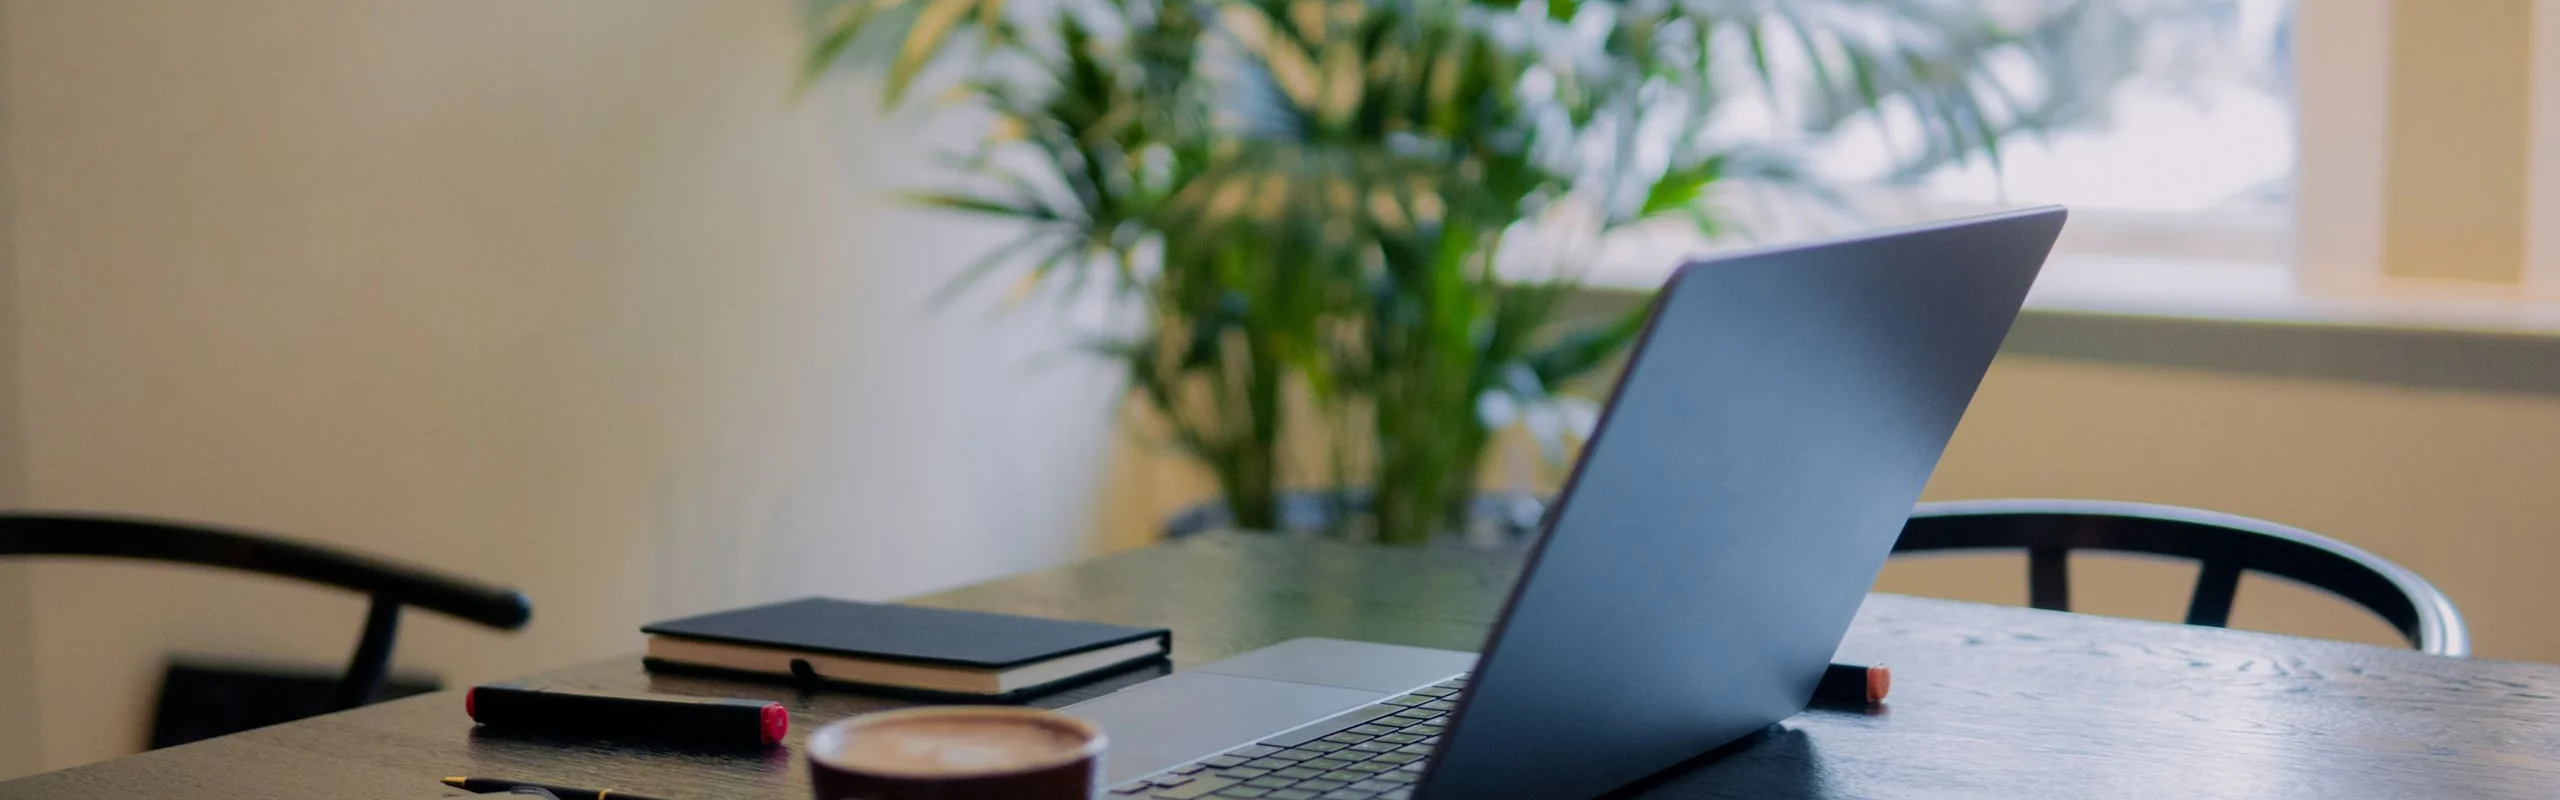
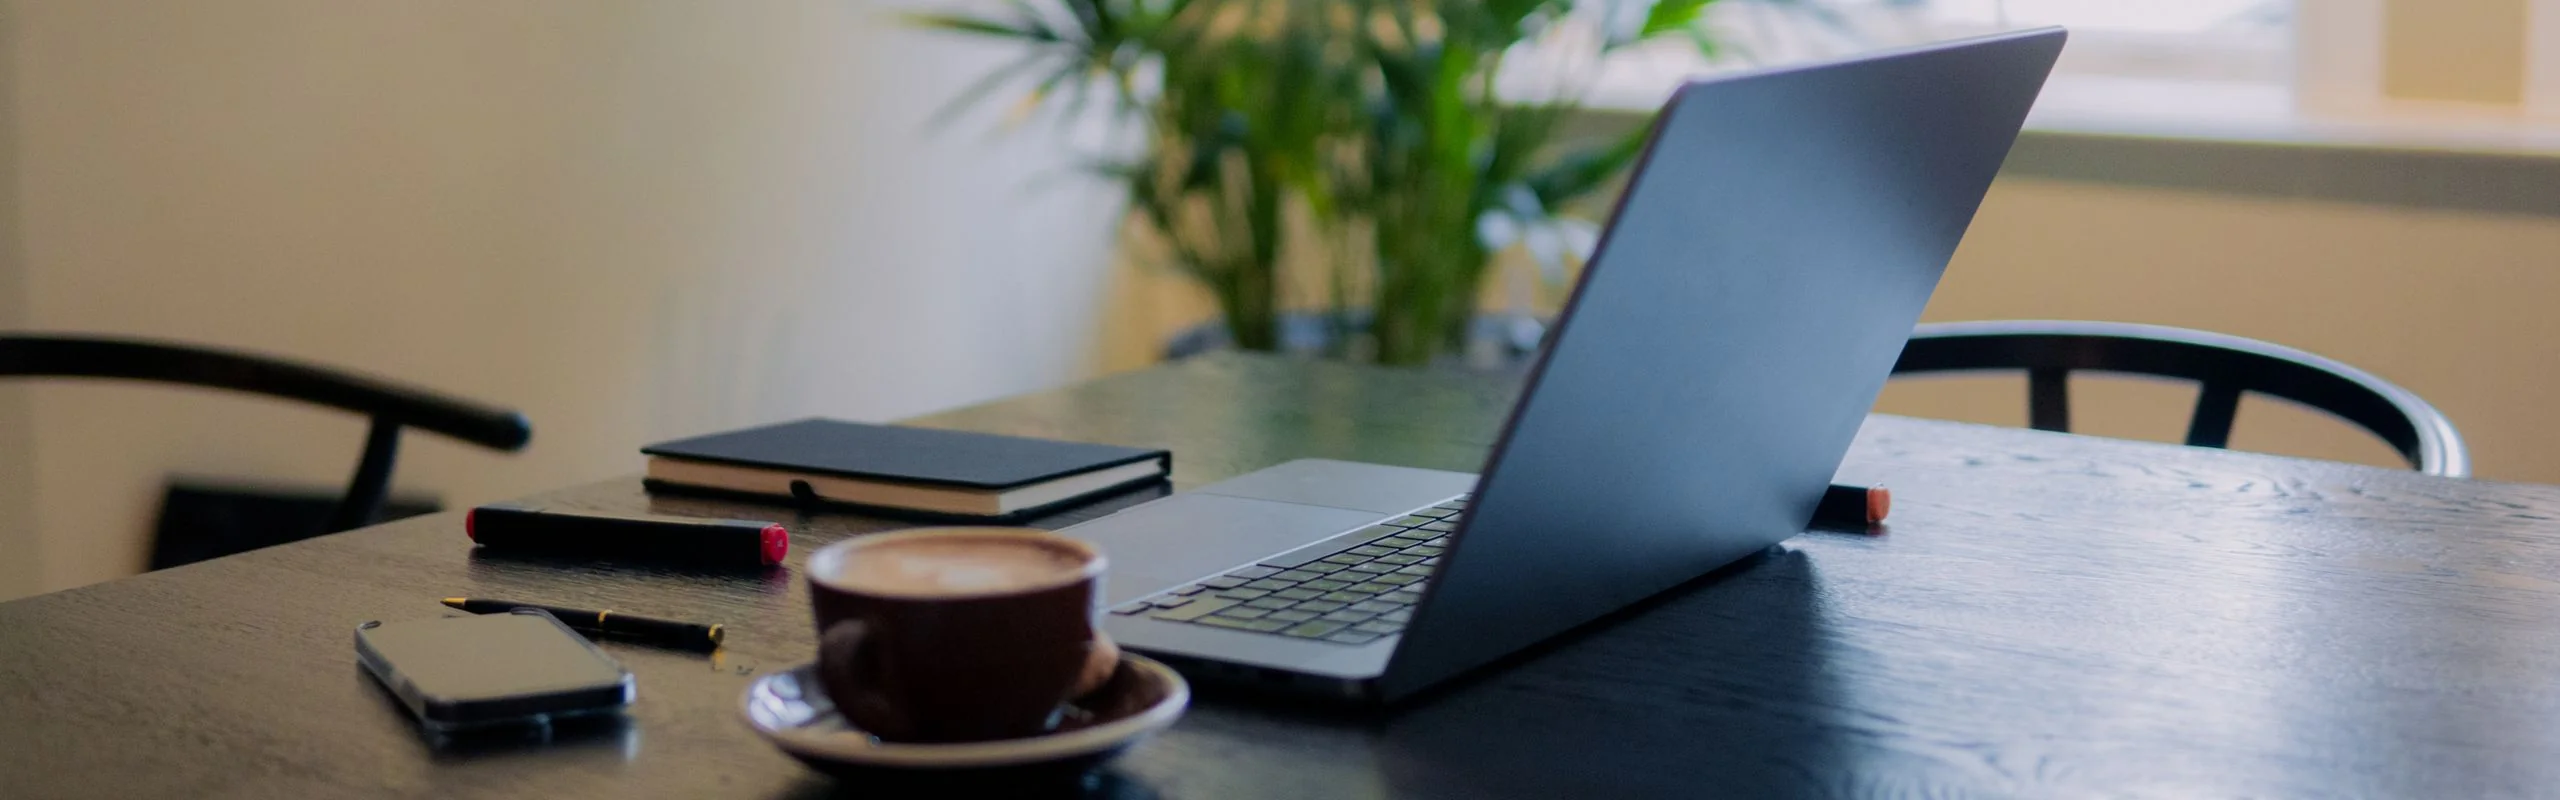
Банер блогу: перецентровано кроп на ноут (не зрізає) + висота шапки 400px

diff --git a/src/components/PageHero.jsx b/src/components/PageHero.jsx
@@ -16,7 +16,7 @@ export default function PageHero({ eyebrow = 'TERMOJET', title, subtitle, image,
         marginTop: '-60px',
         paddingTop: 'calc(3.5rem + 60px)',
         paddingBottom: '2.75rem',
-        minHeight: 340,
+        minHeight: 400,
         background: 'linear-gradient(160deg, #0C0B0A, #141414)',
       }}
     >
